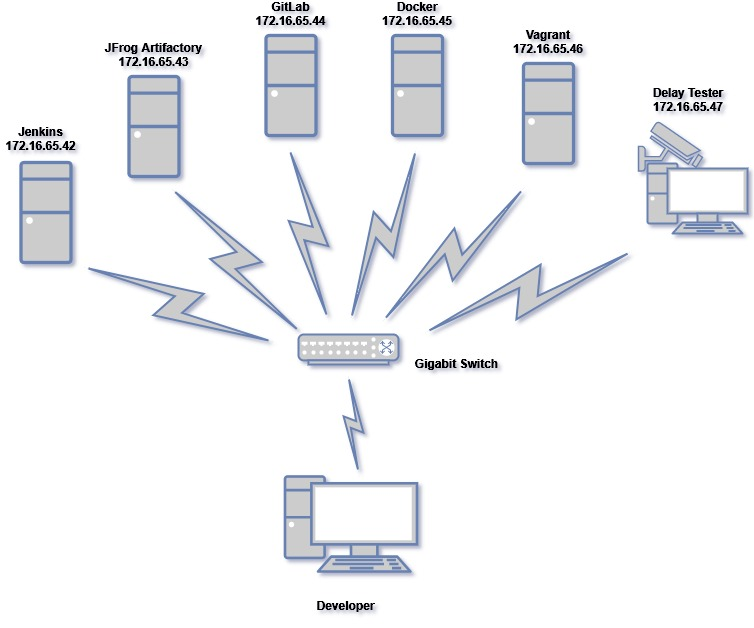
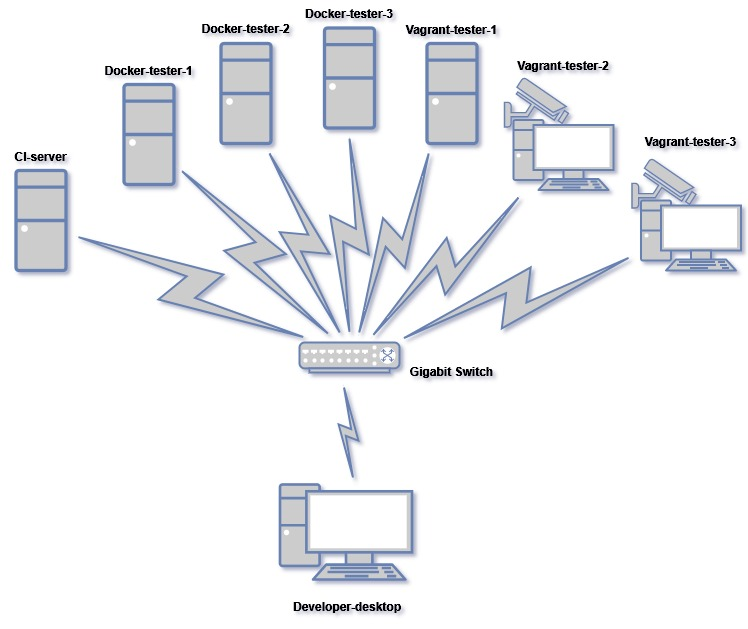
003-devops update

Changed region(s): [[0.0, 0.0, 1.0, 0.9984]]

diff --git a/epics/003-devops.md b/epics/003-devops.md
@@ -1,69 +1,117 @@
 # WebStreamer DevOps Design
+## DevOps deployment pipeline
+![fig.1](./draw.io/003-DevOps-pipeline.jpg)
 
 ## DevOps workflow
-![fig.1](./draw.io/003-DevOps-workflow.jpg)
-
-## DevOps toolset
-1. [Git](https://git-scm.com/) : Free and open-source distributed version control system
-2. [GitHub](https://github.com/) : A web-based hosting service for version control using Git
-3. [Jenkins](https://jenkins.io/) : The leading open-source automation server for CI/CD
-4. [npm](https://www.npmjs.com/) : JavaScript package manager
-5. [Conan](https://conan.io/) : C/C++ open-source package manager
-6. [Docker](https://www.docker.com/) : Container platform
-7. [Vagrant](https://www.vagrantup.com/) : Virtual machine manager
-8. [Gitlab](https://about.gitlab.com/) : A self-hosted web-based Git-repository manager
-9. [JFrog Artifactory](https://jfrog.com/artifactory/) : Enterprise Universal Repository Manager
-10. [VirtualBox](https://www.virtualbox.org/) : Free and open-source hypervisor or virtual machine monitor for x86 computers
+![fig.2](./draw.io/003-DevOps-workflow.jpg)
 
 ## DevOps best practice
-![fig.2](./draw.io/003-DevOps-best-practice.jpg)
+![fig.3](./draw.io/003-DevOps-best-practice.jpg)
+> Toolset as follows:
+> 1. [Git](https://git-scm.com/) : Free and open-source distributed version control system
+> 2. [GitHub](https://github.com/) : A web-based hosting service for version control using Git
+> 3. [Jenkins](https://jenkins.io/) : The leading open-source automation server for CI/CD
+> 4. [npm](https://www.npmjs.com/) : JavaScript package manager
+> 5. [Conan](https://conan.io/) : C/C++ open-source package manager
+> 6. [Docker](https://www.docker.com/) : Container platform
+> 7. [Vagrant](https://www.vagrantup.com/) : Virtual machine manager
+> 8. [Gitlab](https://about.gitlab.com/) : A self-hosted web-based Git-repository manager
+> 9. [JFrog Artifactory](https://jfrog.com/artifactory/) : Enterprise Universal Repository Manager
+> 10. [VirtualBox](https://www.virtualbox.org/) : Free and open-source hypervisor or virtual machine monitor for x86 computers
 
 ## DevOps environment setup
 ### 1. Hardware configuration
-![fig.3](./draw.io/003-DevOps-environment.jpg)
+![fig.4](./draw.io/003-DevOps-environment.jpg)
 ### 2. Software configuration matrix
-Software installed \ Service | Jenkins | JFrog Artifactory | GitLab | Docker | Vagrant | Delay Tester
------------------------------|:-------:|:-----------------:|:------:|:------:|:-------:|:------------:
-__Operating System__||||||
-ubuntu-16.04.5-server|||__*__|__*__||
-Windows 7 Service Pack 1|__*__|__*__|||__*__|
-__Tools__||||||
-Jenkins 2.121.3|__*__|||||
-Git 2.18.0|__*__|||||
-Gitlab CE 11.1.4|||__*__|||
-Java SE Development Kit 8u181||__*__||||
-Google Chrome 68.0||__*__||||
-JFrog Artifactory Pro 6.2.0||__*__||||
-Docker 18.03.0~ce-0~ubuntu_amd64||||__*__||
-Vagrant 2.1.1|||||__*__|
-VirtualBox 5.2.12|||||__*__|
-Windows PowerShell 3.0|||||__*__|
+Software installed \ Computers | CI-server | Docker-tester-1/2/3 | Vagrant-tester-1 | Vagrant-tester-2 | Vagrant-tester-3
+-------------------------------|:---------:|:-------------------:|:------:|:-------:|:----:
+__Operating System__|||||
+Windows 7 Service Pack 1|__*__|||__*__|__*__
+ubuntu-16.04.5-server||__*__|__*__||
+__Tools__|||||
+Jenkins 2.121.3|__*__|__*__|__*__|__*__|__*__
+JFrog Artifactory Pro 6.2.0|__*__||||
+Java SE Development Kit 8u181|__*__||||
+Gitlab CE 11.1.4|__*__||||
+Git 2.18.0|__*__||||
+Docker CE 18.03.0||__*__|||
+Vagrant 2.1.1|||__*__|__*__|__*__
+VirtualBox 5.2.12|||__*__|__*__|__*__
+Windows PowerShell 3.0||||__*__|__*__
 
-## DevOps software environment configuration matrix
-Software installed \ Worker image | Ubuntu16.04   | Windows7
-:----------------------------------|:-------------:|:---------:
-__Operating System__||
-ubuntu-16.04.5-desktop|__*__|
-Windows 7 Service Pack 1||__*__
-__PowerShell__||
-Windows PowerShell 5.1||__*__
-__.Net Framework__||
-.Net Framework 4.7.2||__*__
-__Visual Studio 2015__||
-Visual Studio Community 2015 with Update 3||__*__
-__Version Control__||
-Git 2.18.0|__*__|__*__
-Git Large File Storage 2.5.1|__*__|__*__
-__Node.js__||
-Node.js 8.11.4 LTS|__*__|__*__
-__Python__||
-Python 2.7.15|__*__|__*__
-Python 3.7.0|__*__|__*__
-__Selenium__||
-[Google ChromeDriver 2.41](https://sites.google.com/a/chromium.org/chromedriver/downloads)|__*__|__*__
-[Firefox GeckoDriver 0.21.0](https://github.com/mozilla/geckodriver/releases)|__*__|__*__
-__Web Browser__||
-Chrome 68.0|__*__|__*__
-Firefox 61.0.2|__*__|__*__
-__Tools__||
-CMake 3.12.1|__*__|__*__
+> Each server's role lists as follows:
+> - CI-server : Jenkins server, JFrog Artifactory server, GitLab repository
+> - Docker-tester-1/2/3 : Linux build and test machines via Docker images
+> - Vagrant-tester-1 : Windows build and test machine via Vagrant boxes
+> - Vagrant-tester-2 : Windows GUI test machine via Vagrant boxes
+> - Vagrant-tester-3 : Linux GUI test machine via Vagrant boxes
+
+## Docker image and vagrant box configuration matrix
+### General configuration matrix
+Software installed \ Docker image(D) or Vagrant box(V) | Ubuntu-server(D) | Ubuntu-desktop(V) | Windows(V) | Conan(D)
+:------------------------------------------------------|:----------------:|:----------------:|:----------:|:--------:
+__Operation System__||||
+Ubuntu ( Desktop )||__*__||
+Ubuntu ( Server )|__*__|||
+Windows|||__*__|
+__Tool Chain__||||
+Windows PowerShell|||__*__|
+.Net Framework|||__*__|
+Visual Studio|||__*__|
+Git|__*__|__*__|__*__|
+Node.js|__*__|__*__|__*__|
+Python|__*__|__*__|__*__|
+CMake|__*__|__*__|__*__|
+__Selenium__||||
+Google ChromeDriver|__*__|__*__|__*__|
+Firefox GeckoDriver|__*__|__*__|__*__|
+__Web Browser__||||
+Chrome|__*__|__*__|__*__|
+Firefox|__*__|__*__|__*__|
+
+### Docker image and vagrant box version control
+#### Ubuntu-server(D)
+Software installed \ Version | 0.1
+:----------------------------|:----
+Ubuntu ( Server )            | 16.04.5-server
+Git                          | 2.18.0
+Node.js                      | 10.9.0
+Python                       | 2.7.15
+CMake                        | 3.12.1
+Google ChromeDriver          | 2.41
+Firefox GeckoDriver          | 0.21.0
+Chrome                       | 68.0
+Firefox                      | 61.0.2
+
+#### Ubuntu-desktop(V)
+Software installed \ Version | 0.1
+:----------------------------|:----
+Ubuntu ( Desktop )           | 16.04.5-desktop
+Git                          | 2.18.0
+Node.js                      | 10.9.0
+Python                       | 2.7.15
+CMake                        | 3.12.1
+Google ChromeDriver          | 2.41
+Firefox GeckoDriver          | 0.21.0
+Chrome                       | 68.0
+Firefox                      | 61.0.2
+
+#### Windows(V)
+Software installed \ Version | 0.1
+:----------------------------|:----
+Windows                      | 7 Service Pack 1
+Windows PowerShell           | 5.1
+.Net Framework               | 4.7.2
+Visual Studio                | 2017 CE
+Git                          | 2.18.0
+Node.js                      | 10.9.0
+Python                       | 2.7.15
+CMake                        | 3.12.1
+Google ChromeDriver          | 2.41
+Firefox GeckoDriver          | 0.21.0
+Chrome                       | 68.0
+Firefox                      | 61.0.2
+
+#### Conan(D)
+Software installed \ Version | 0.1
+:----------------------------|:----
